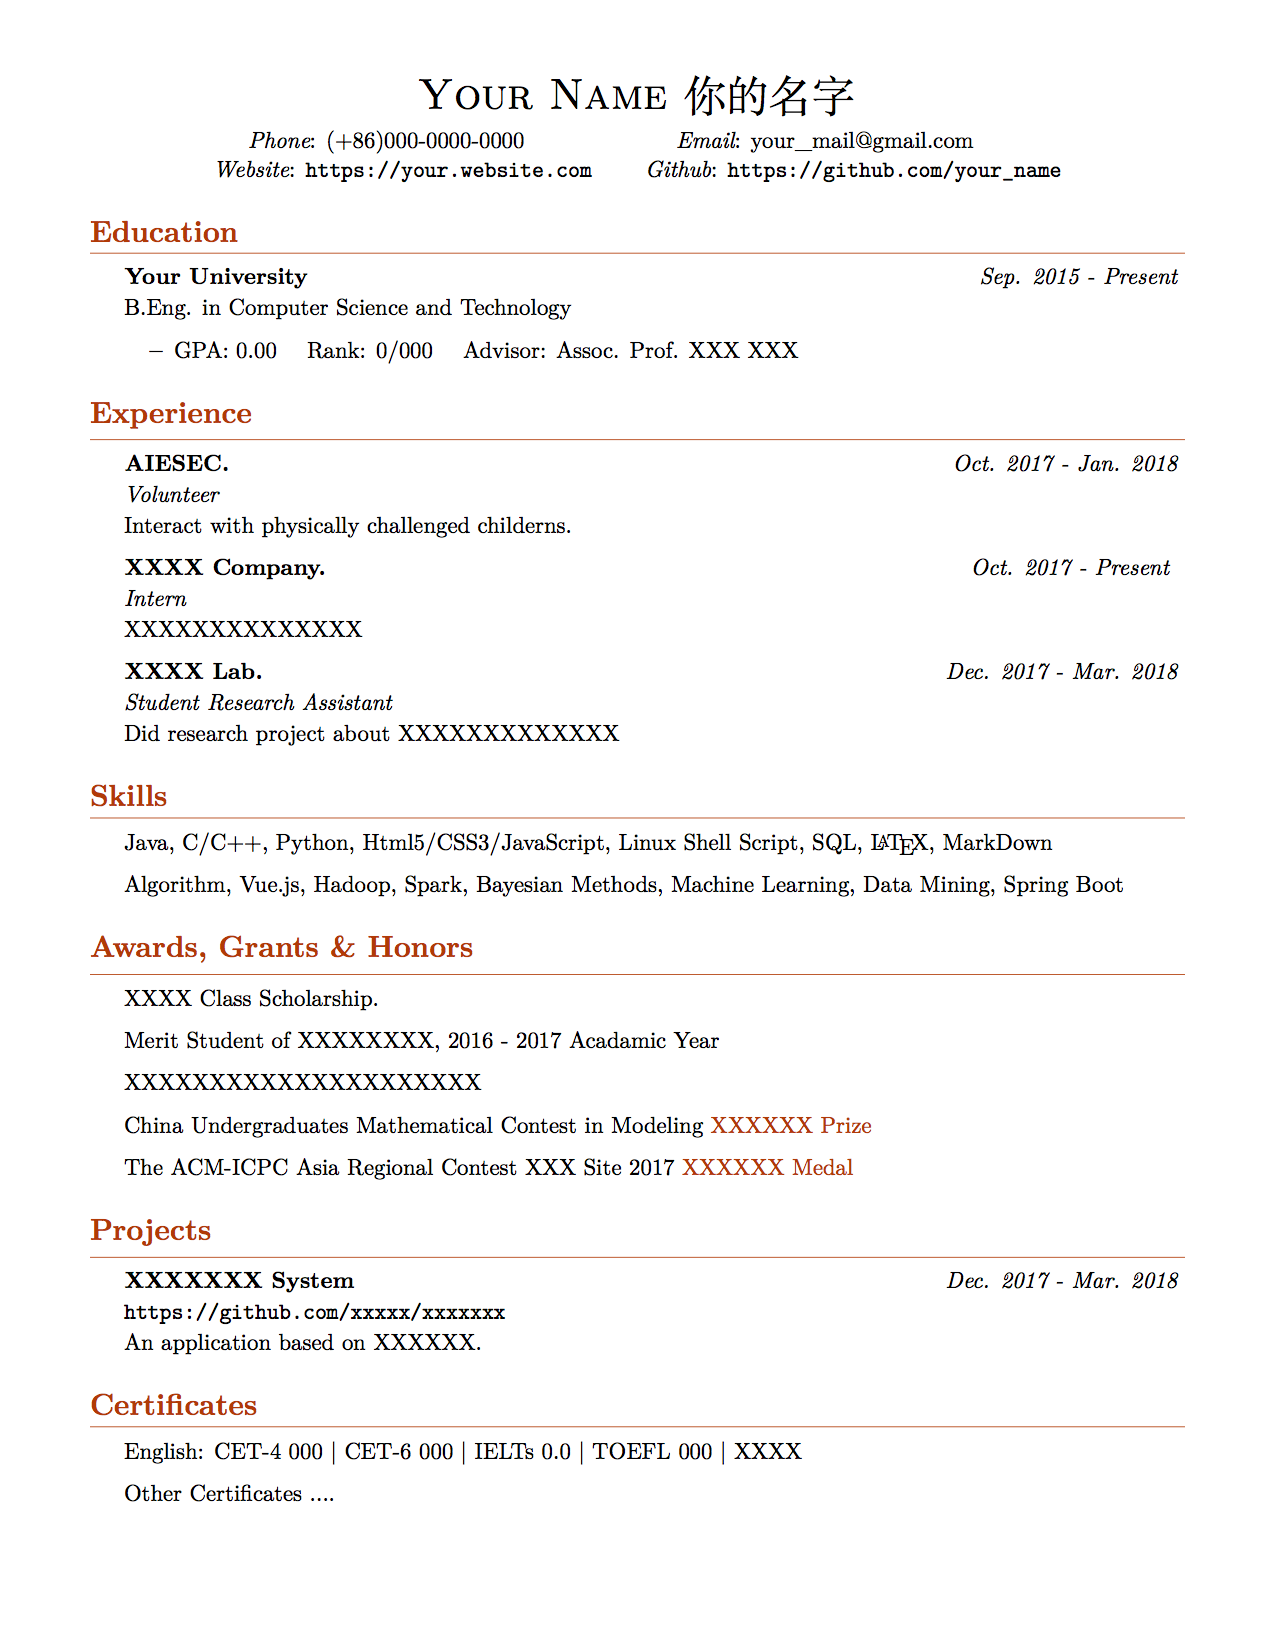
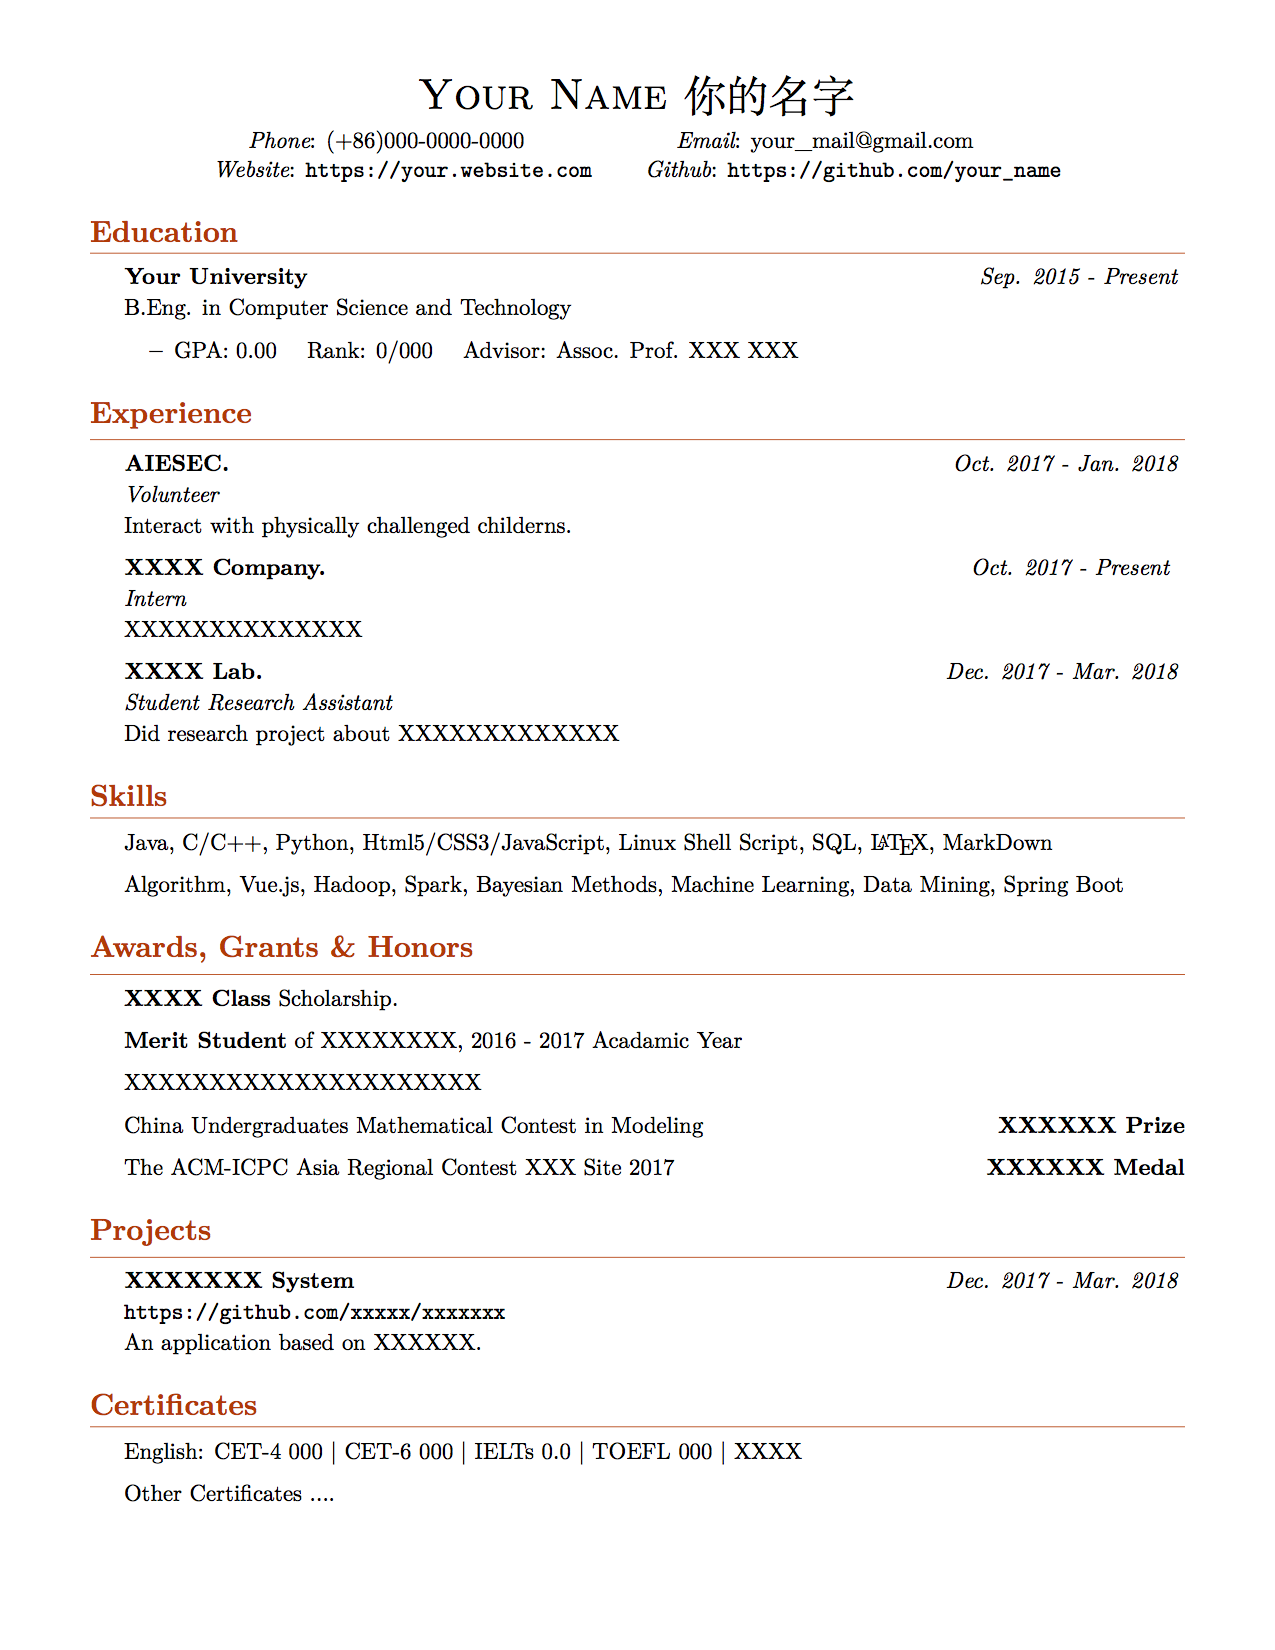
对学术风格模版进行一定的调整

Changed region(s): [[0.0918, 0.5873, 0.5812, 0.6491], [0.7647, 0.68, 0.9482, 0.7109], [0.5506, 0.68, 0.6729, 0.7109]]

diff --git a/academic/resume_en.tex b/academic/resume_en.tex
@@ -81,11 +81,11 @@
 
 \sectionTitle{Awards, Grants \& Honors}
 \begin{description}{}
-	\item{\ \ } XXXX Class Scholarship.
-	\item{\ \ } Merit Student of XXXXXXXX, 2016 - 2017 Acadamic Year
+	\item{\ \ } \textbf{XXXX Class} Scholarship.
+	\item{\ \ } \textbf{Merit Student} of XXXXXXXX, 2016 - 2017 Acadamic Year
 	\item{\ \ } XXXXXXXXXXXXXXXXXXXXX
-	\item{\ \ } China Undergraduates Mathematical Contest in Modeling {\color{orangeRed}XXXXXX Prize}
-	\item{\ \ } The ACM-ICPC Asia Regional Contest XXX Site 2017 {\color{orangeRed}XXXXXX Medal}
+	\item{\ \ } China Undergraduates Mathematical Contest in Modeling \hfill \textbf{XXXXXX Prize}
+	\item{\ \ } The ACM-ICPC Asia Regional Contest XXX Site 2017 \hfill \textbf{XXXXXX Medal}
 \end{description}
 
 

diff --git a/README.md b/README.md
@@ -2,7 +2,10 @@
 
 本项目中目前包含2个模版。
 
-## 1.sorahjy的学术风格简历模版
+## 1.一种学术风格的简历模版
+
+> * 原作者: sorahjy
+> * 创作时间: May. 2018
 
 * 点击以下网址访问该模版：
 https://github.com/sorahjy/latex-resume-templates/tree/master/academic
@@ -12,7 +15,12 @@ https://github.com/sorahjy/latex-resume-templates/tree/master/academic
 ![Image text](https://github.com/sorahjy/latex-resume-templates/blob/master/academic/resume_en.png)
 
 
-## 2.sorahjy的时尚风格简历模板
+## 2.一种时尚风格的简历模板
+
+> * 原作者: Carmine Spagnuolo
+> * 原作者的Github: https://github.com/spagnuolocarmine/TwentySecondsCurriculumVitae-LaTex
+> * 修改者: sorahjy
+> * 修改时间: Apr. 2018
 
 * 点击以下网址访问该模版：
 https://github.com/sorahjy/latex-resume-templates/tree/master/stylish
